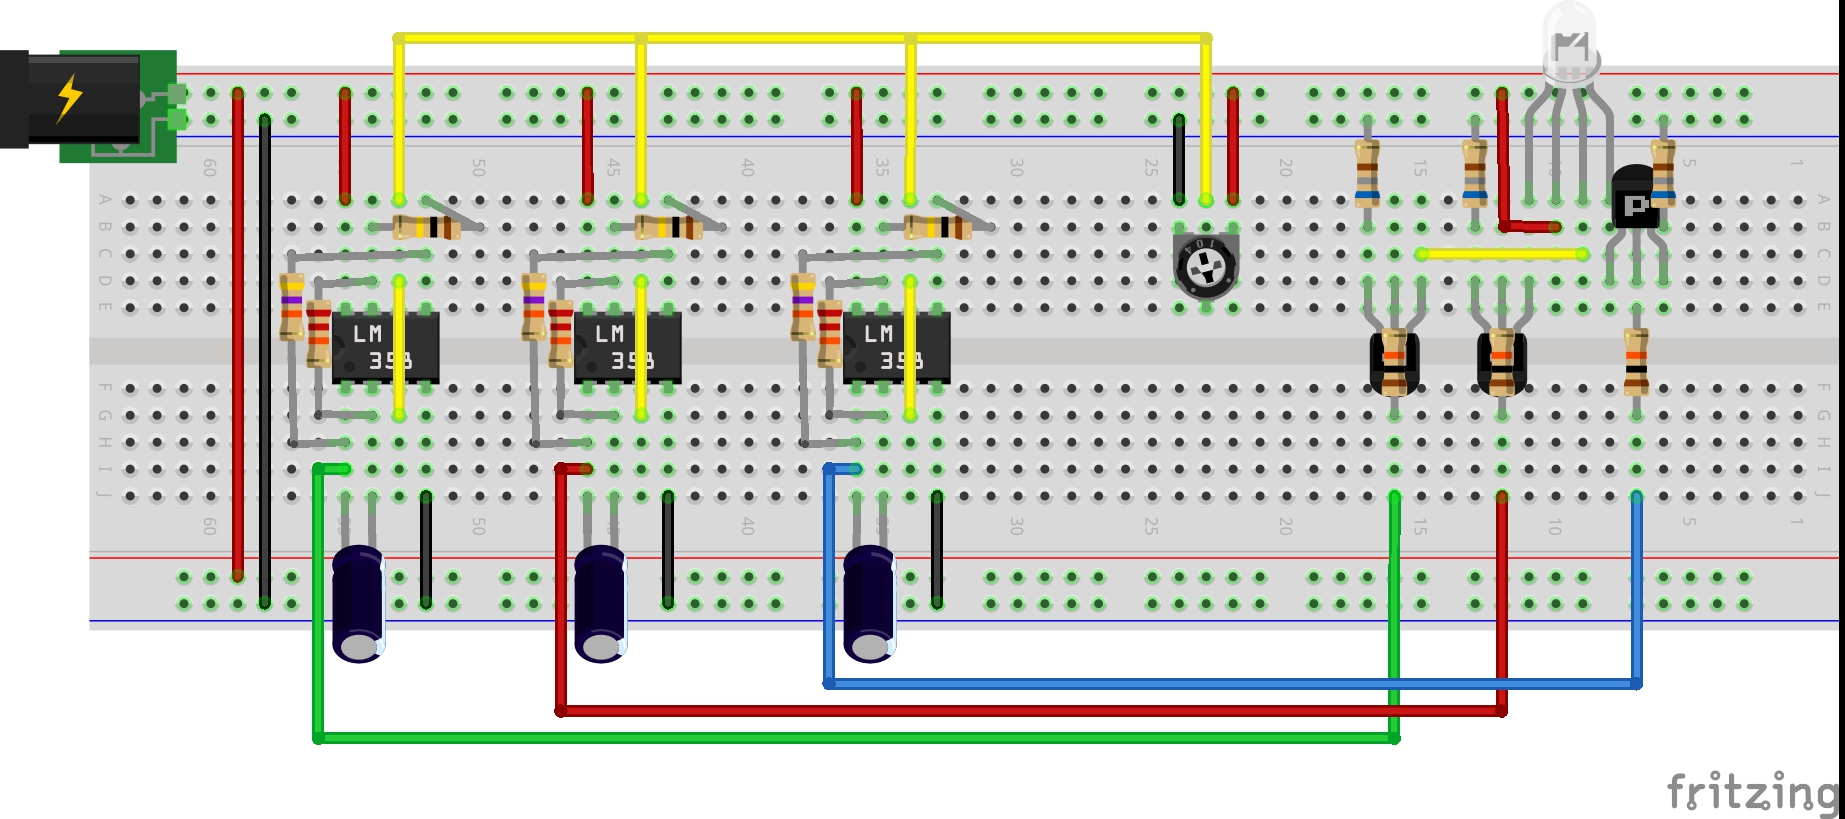
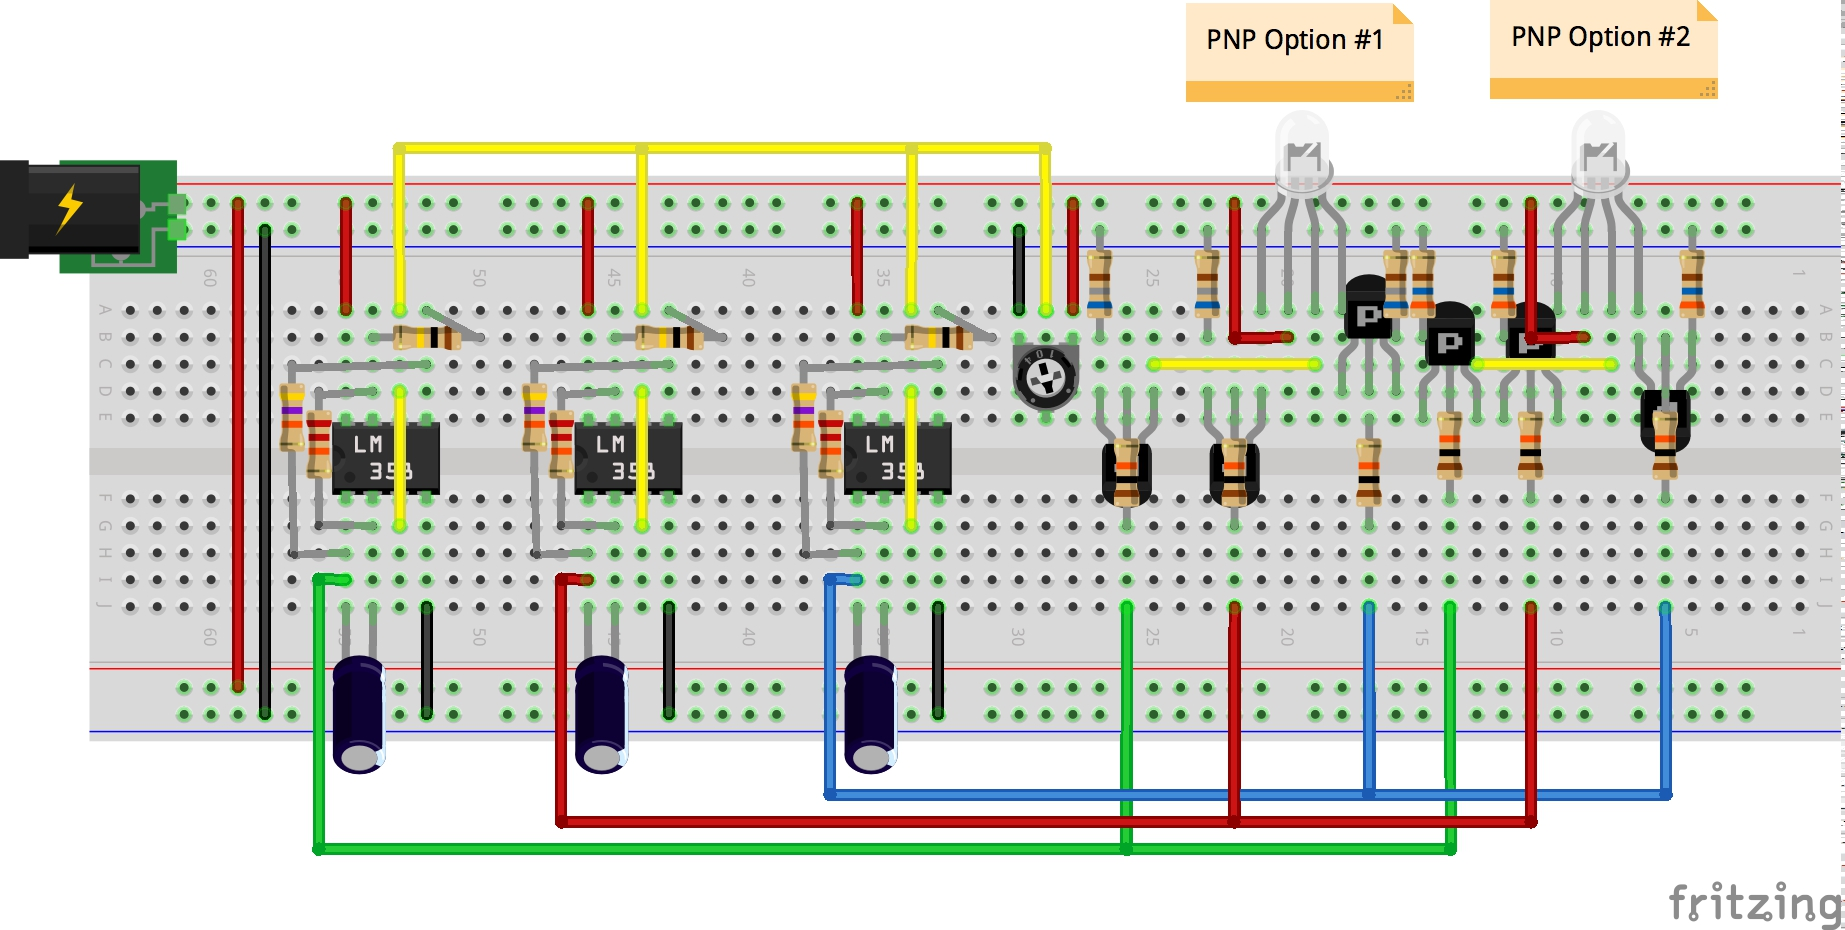
[RgbLedGlow] notes on circuit alternatives

diff --git a/Electronics101/RgbLedGlow/README.md b/Electronics101/RgbLedGlow/README.md
@@ -49,6 +49,16 @@ Here's a sample of the Red (CH3), Green (CH1), Blue (Ch2) waveforms.
 The LEDs are configured with a low-side PNP control and current-limiting resistors.
 This puts the linear region of the transistors in the general vacinity of the triangle waveforms.
 
+After some experimentation, I discovered I could get a much more peasing "glow" effect by reversing the
+PNP driver transistors (i.e. swap Collector and Emitter).
+The current flow is reduced, which can be offset by also reducing the current-limiting resistors.
+But it does expand the (pseudo-)linear region to cover the entire triangle wave sweep.
+This is a bit of a hack, and could probably be better achieved by ensuring the
+driving triangle wave is amplified and offset precisely to bias the transistors appropriately.
+
+The schematic shows the alternative arrangements.
+The [demo video](http://www.youtube.com/watch?v=9PpOC6A96As) is using the reversed-PNP arrangement.
+
 ## Construction
 
 ![Breadboard](./assets/RgbLedGlow_bb.jpg?raw=true)
